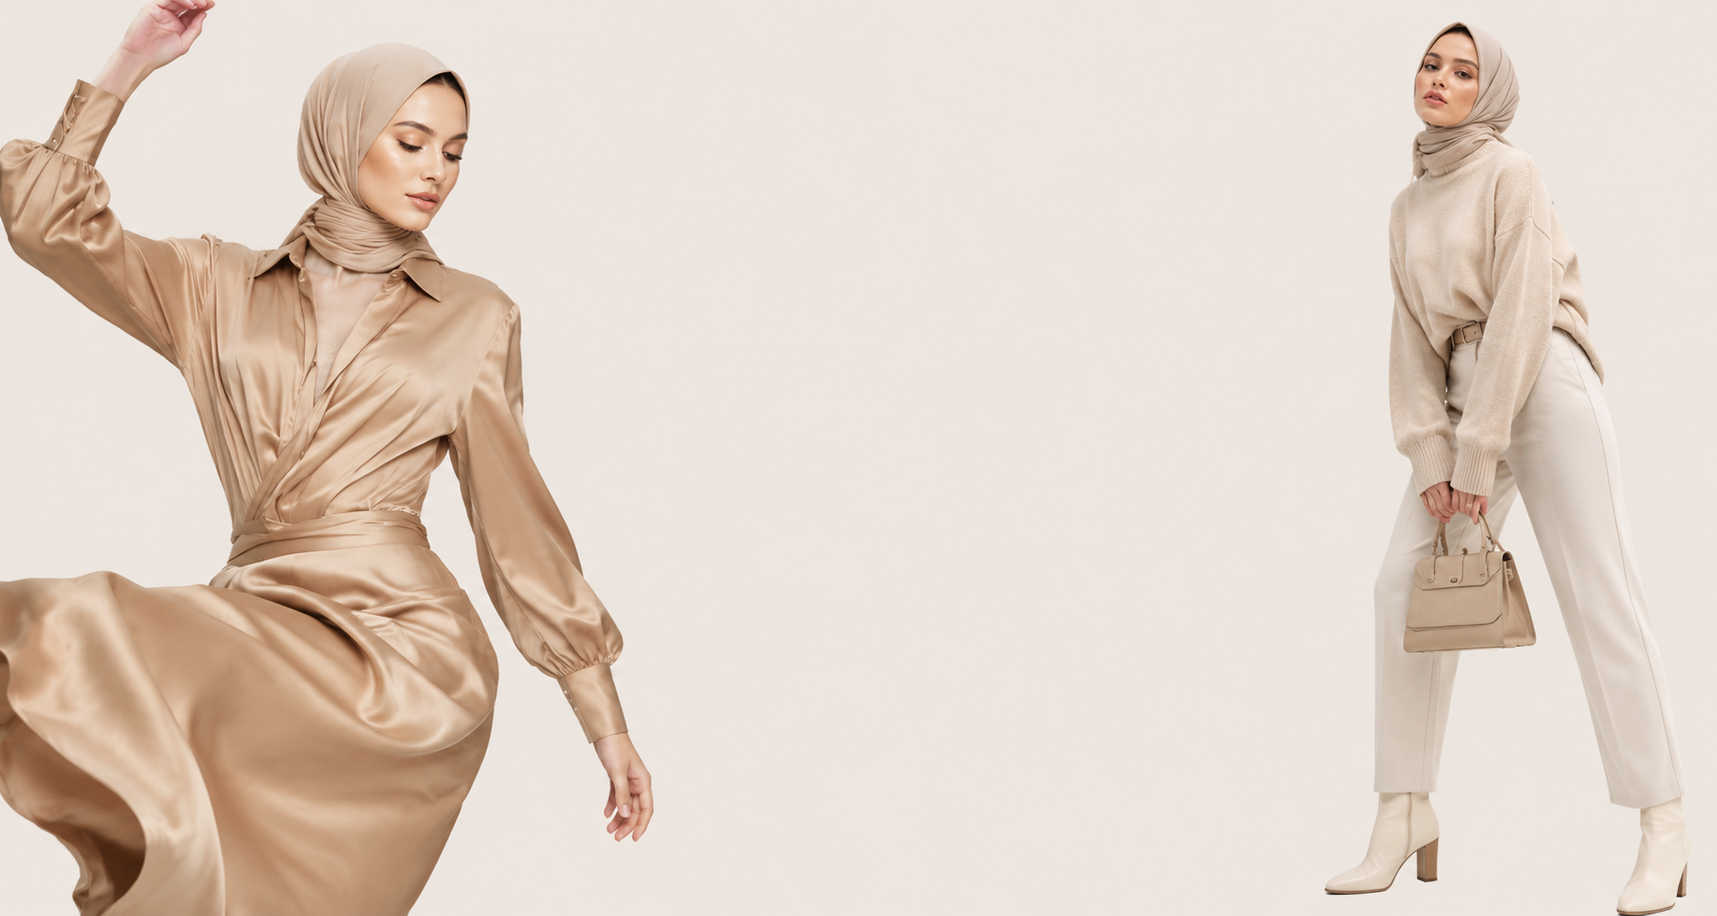
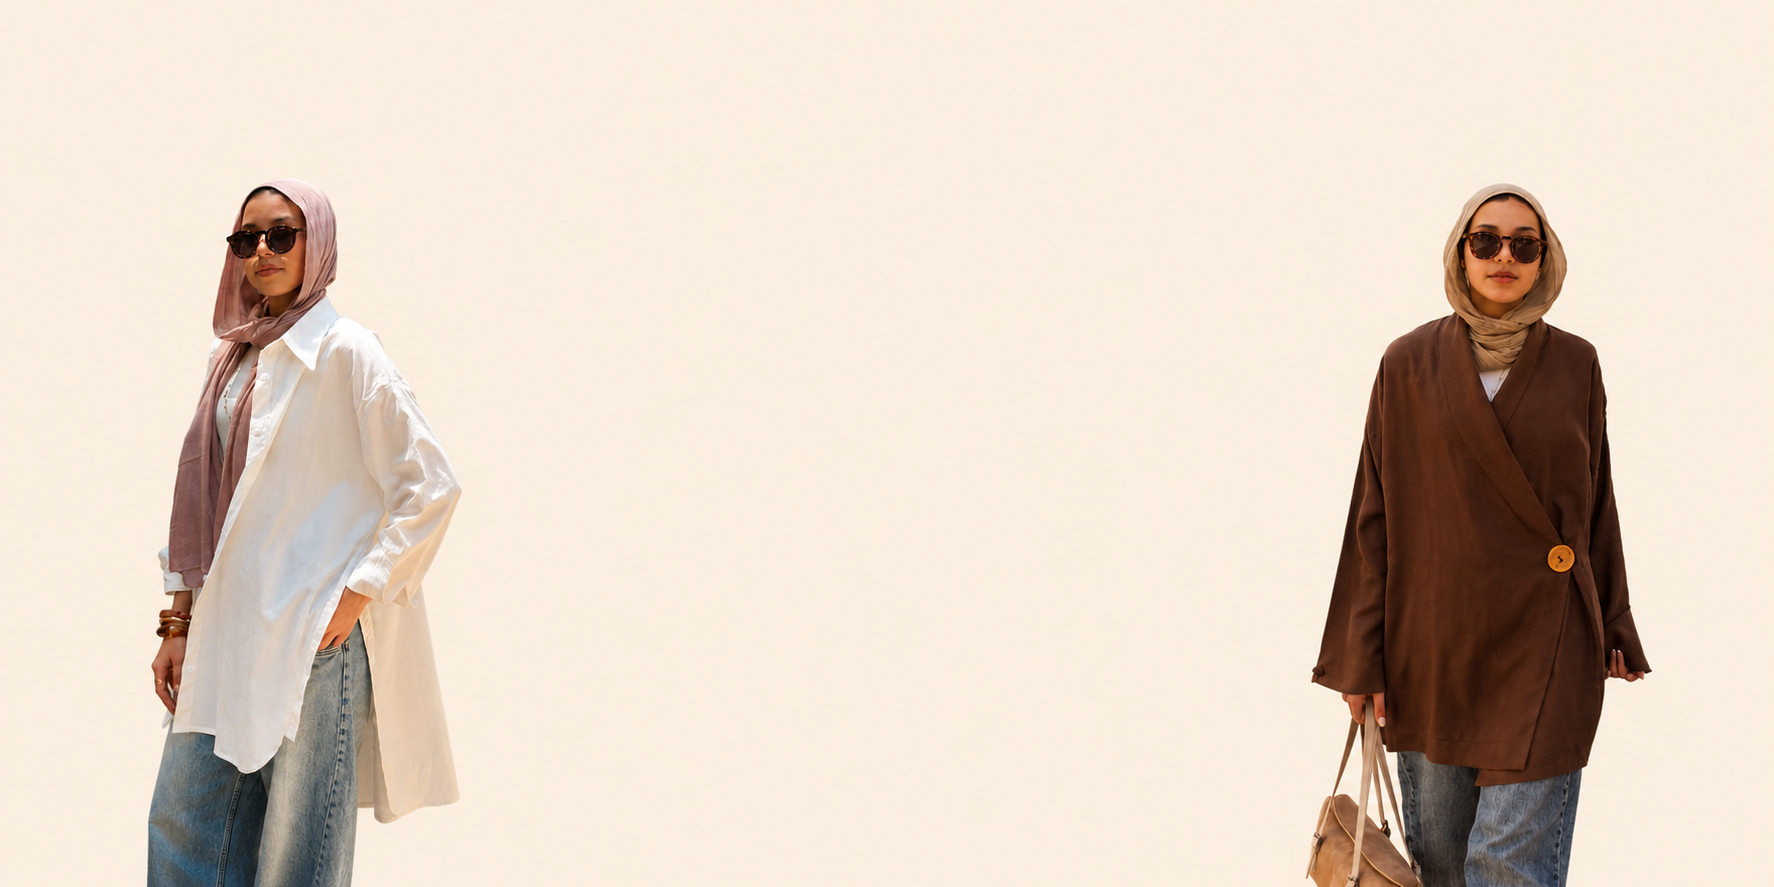
feat: Update admin layout styles, enhance product form behavior, and modify stock display in product page

diff --git a/app/admin/products/content.js b/app/admin/products/content.js
@@ -1,7 +1,7 @@
 // app/admin/products/content.js
 "use client";
 
-import { useState } from "react";
+import { useEffect, useState } from "react";
 import { createClient } from "@/lib/supabase/client";
 import { COMMON_SIZES, normalizeSize } from "@/lib/sizes";
 import { showToast, showError, confirmAction } from "@/lib/sweetalert";
@@ -37,6 +37,15 @@ export default function ProductsContent({ products, categories }) {
   const [images, setImages] = useState([]);
 
   const supabase = createClient();
+
+  useEffect(() => {
+    if (!showForm) return;
+    const previous = document.body.style.overflow;
+    document.body.style.overflow = "hidden";
+    return () => {
+      document.body.style.overflow = previous;
+    };
+  }, [showForm]);
 
   const filtered = productList.filter((p) => {
     const matchSearch = p.name?.toLowerCase().includes(search.toLowerCase());
@@ -164,7 +173,7 @@ export default function ProductsContent({ products, categories }) {
       });
 
       showToast("success", editing ? "Product updated." : "Product created.");
-      setShowForm(false);
+      closeForm();
     } catch (err) {
       showError("Could not save product", err.message || "Failed to save product.");
     } finally {
@@ -201,7 +210,17 @@ export default function ProductsContent({ products, categories }) {
     }
   }
   function startEdit(p) { /* التعليم الأصلي */ setEditing(p.id); setName(p.name); setDescription(p.description || ""); setPrice(p.price); setCategoryId(p.category_id || ""); setIsActive(p.is_active); setVariants((p.product_variants || []).map((v) => ({ size: normalizeSize(v.size), color: v.color, stock_quantity: v.stock_quantity, }))); setImages((p.product_images || []).slice().sort((a, b) => (a.sort_order ?? 0) - (b.sort_order ?? 0)).map((img) => ({ image_url: img.image_url, is_primary: img.is_primary, }))); setShowForm(true); }
-  function startCreate() { setEditing(null); setName(""); setDescription(""); setPrice(""); setCategoryId(""); setIsActive(true); setVariants([emptyVariant()]); setImages([]); setShowForm(true); }
+  function resetForm() {
+    setName("");
+    setDescription("");
+    setPrice("");
+    setCategoryId("");
+    setIsActive(true);
+    setVariants([emptyVariant()]);
+    setImages([]);
+  }
+  function startCreate() { setEditing(null); resetForm(); setShowForm(true); }
+  function closeForm() { setShowForm(false); setEditing(null); resetForm(); }
 
   return (
     <div className="space-y-6">
@@ -245,18 +264,21 @@ export default function ProductsContent({ products, categories }) {
         </div>
       </div>
 
-      {/* Main Form (Overlay or In-line) */}
+      {/* Product Add/Edit Modal */}
       {showForm && (
-        <div className="bg-white rounded-[24px] border border-[var(--color-light-beige)] shadow-xl overflow-hidden animate-in fade-in slide-in-from-top-4 duration-300">
-          <div className="p-6 border-b border-[var(--color-light-beige)] flex justify-between items-center bg-[var(--color-cream)]">
-            <h3 className="font-bold text-lg text-[var(--color-dark-brown)]">{editing ? "Edit Product" : "Create New Product"}</h3>
-            <button onClick={() => setShowForm(false)} className="p-2 hover:bg-[var(--color-light-beige)] rounded-full transition-colors">
-              <X size={20} />
-            </button>
-          </div>
-          
-          <form onSubmit={handleSave} className="p-8">
-            <div className="grid grid-cols-1 lg:grid-cols-2 gap-10">
+        <div className="fixed inset-0 z-50 overflow-y-auto">
+          <div className="fixed inset-0 bg-black/40 backdrop-blur-sm" aria-hidden="true" />
+          <div className="min-h-full flex items-center justify-center p-4 sm:p-6">
+            <div className="relative bg-white w-full max-w-[1000px] rounded-[24px] border border-[var(--color-light-beige)] shadow-2xl animate-in fade-in slide-in-from-top-4 duration-300">
+              <div className="p-6 border-b border-[var(--color-light-beige)] flex justify-between items-center bg-[var(--color-cream)] rounded-t-[24px]">
+                <h3 className="font-bold text-lg text-[var(--color-dark-brown)]">{editing ? "Edit Product" : "Create New Product"}</h3>
+                <button onClick={closeForm} className="p-2 hover:bg-[var(--color-light-beige)] rounded-full transition-colors" aria-label="Close">
+                  <X size={20} />
+                </button>
+              </div>
+
+              <form onSubmit={handleSave} className="p-6 sm:p-8 max-h-[70vh] sm:max-h-[calc(100vh-10rem)] overflow-y-auto">
+            <div className="grid grid-cols-1 md:grid-cols-2 gap-8">
               
               {/* Left Column: General Info */}
               <div className="space-y-6">
@@ -362,6 +384,9 @@ export default function ProductsContent({ products, categories }) {
                 </div>
 
                 <div className="pt-10 flex flex-col gap-3">
+                   <button type="button" onClick={closeForm} disabled={saving} className="w-full py-4 bg-[var(--color-light-beige)] text-[var(--color-dark-brown)] rounded-xl font-bold hover:bg-[var(--color-cream)] transition-all disabled:opacity-50">
+                     Cancel
+                   </button>
                    <button type="submit" disabled={saving} className="w-full py-4 bg-[var(--color-dark-brown)] text-white rounded-xl font-bold hover:bg-[var(--color-tan)] transition-all disabled:opacity-50">
                      {saving ? "Processing..." : editing ? "Update Product" : "Publish Product"}
                    </button>
@@ -373,6 +398,8 @@ export default function ProductsContent({ products, categories }) {
               </div>
             </div>
           </form>
+            </div>
+          </div>
         </div>
       )}
 

diff --git a/src/components/Navbar.jsx b/src/components/Navbar.jsx
@@ -158,10 +158,11 @@ const Navbar = () => {
               Account Details
             </Link>
             
+            {profile?.role === 'admin'? "":(
             <Link href="/orders" onClick={() => setUserMenuOpen(false)} className="flex items-center px-5 py-2.5 text-[10px] font-bold uppercase tracking-widest text-dark-brown hover:bg-cream hover:text-tan transition-colors">
               My Orders
             </Link>
-            
+            )}
             {profile?.role === 'admin' && (
               <Link href="/admin" onClick={() => setUserMenuOpen(false)} className="flex items-center px-5 py-2.5 text-[10px] font-bold uppercase tracking-widest text-rose-brown hover:bg-cream transition-colors">
                 Admin Panel

diff --git a/app/product/[id]/content.js b/app/product/[id]/content.js
@@ -134,7 +134,7 @@ export default function ProductPageContent() {
                 <div className="flex items-center justify-between pt-2">
                   <span className="text-2xl font-bold text-dark-brown">EGP {product.price?.toLocaleString(undefined, { minimumFractionDigits: 2 })}</span>
                   <span className={`text-[9px] font-black uppercase tracking-widest px-2.5 py-1 border rounded-sm ${inStock ? 'text-tan border-tan/20 bg-cream' : 'text-red-500 border-red-50'}`}>
-                    {inStock ? `${stock} in Stock` : 'Out of Stock'}
+                    {inStock ? `in Stock` : 'Out of Stock'}
                   </span>
                 </div>
               </div>

diff --git a/app/admin/layout.js b/app/admin/layout.js
@@ -43,7 +43,7 @@ export default function AdminLayout({ children }) {
   const closeSidebar = () => setSidebarOpen(false);
 
   return (
-    <div className="flex min-h-screen bg-[var(--color-cream)] text-[var(--color-dark-brown)]">
+    <div className="flex min-h-screen bg-[#F9F6F3] text-[var(--color-dark-brown)]">
       {/* Mobile overlay */}
       {sidebarOpen && (
         <div
